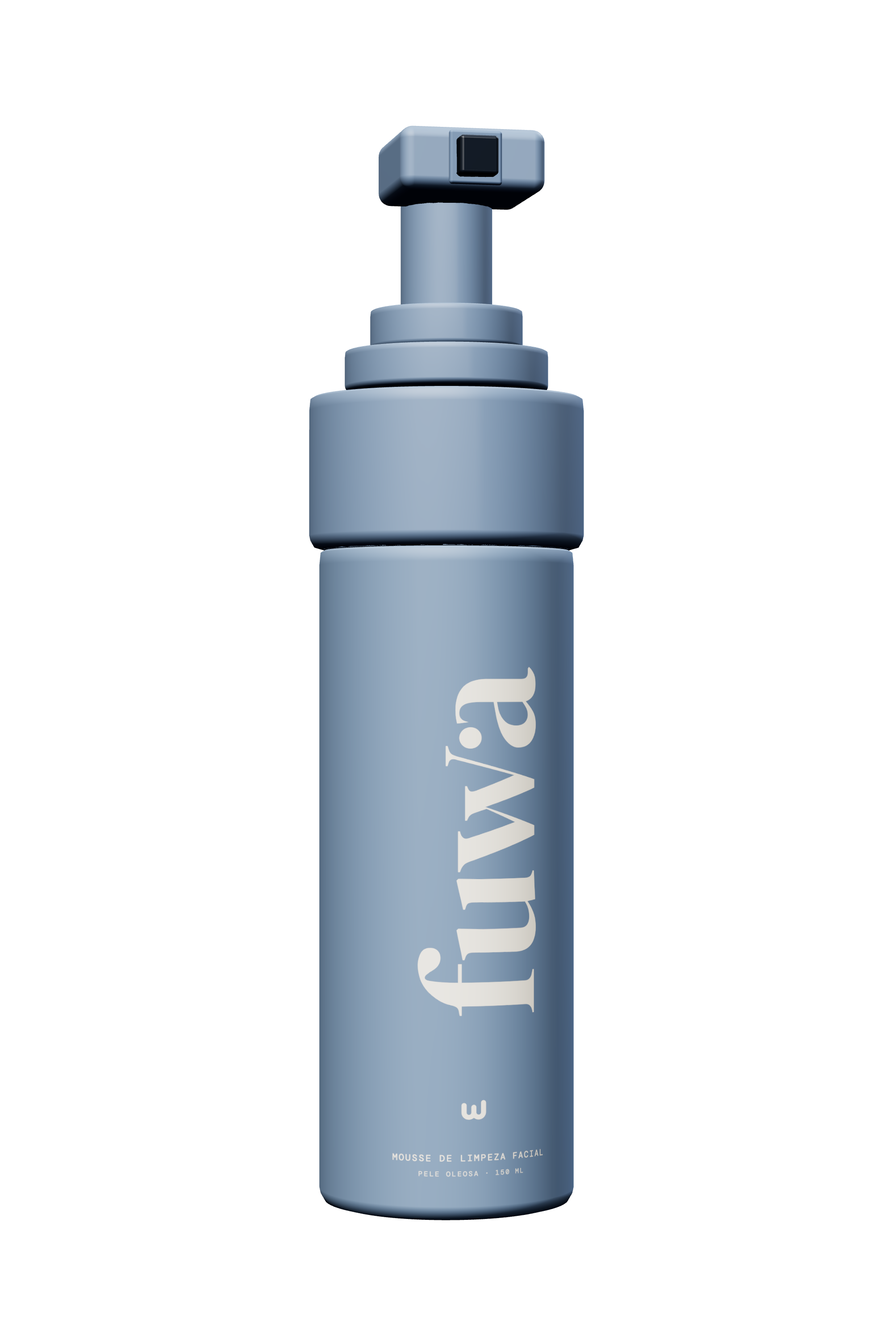
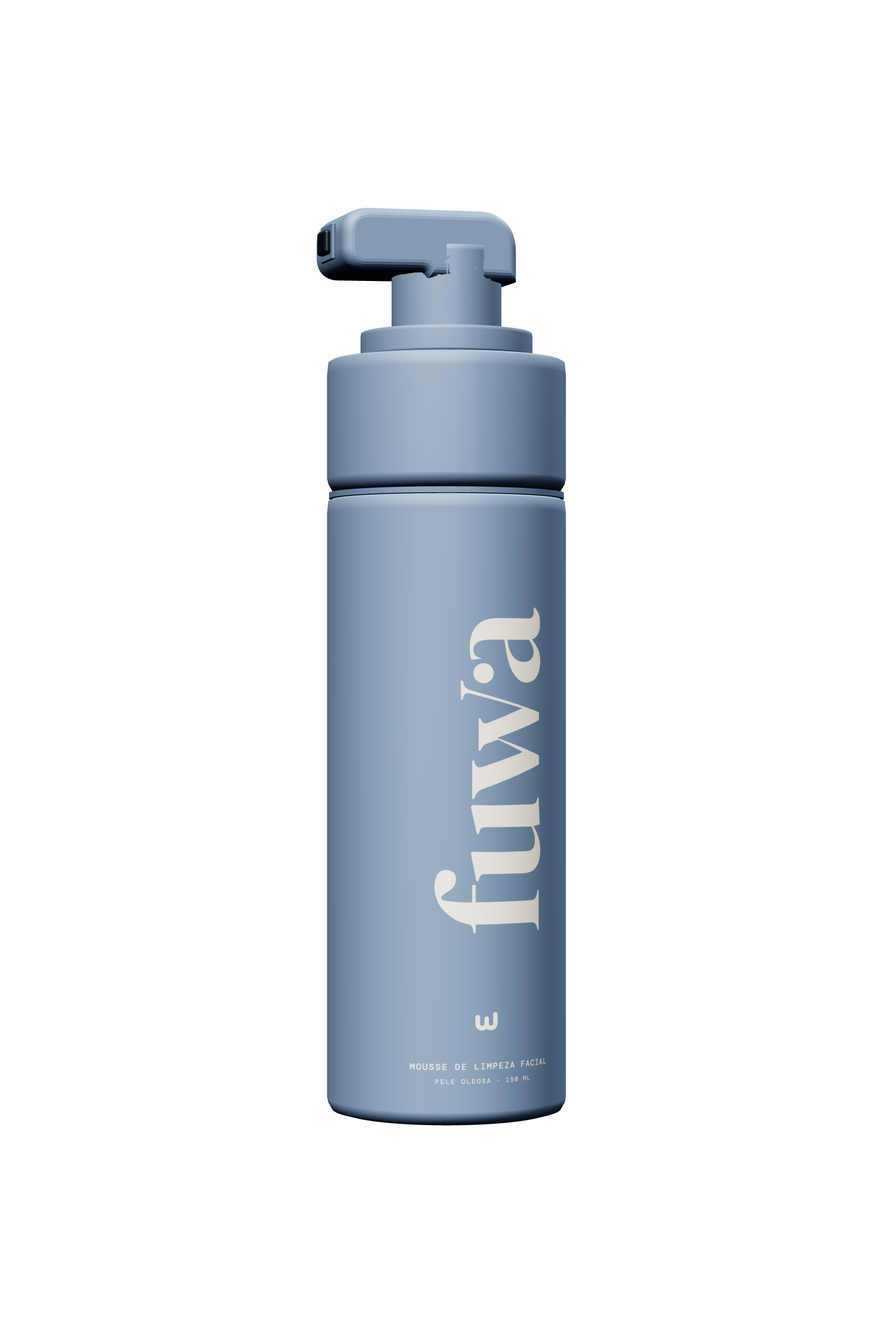
Landing v2.3: revisão de UX com ui-ux-pro-max, design-taste, motion e img2threejs (frasco fiel à foto, ruptura nova, fechamento sem corte, menos rótulos, um nome de CTA)

Changed region(s): [[0.341, 0.093, 0.651, 0.93]]

diff --git a/index.html b/index.html
@@ -24,15 +24,15 @@
     <header class="site-header" id="site-header"><a class="header-mark" href="#abertura" aria-label="Voltar ao início"><img src="assets/logo/FUWA-LOGO-GRAFITE.svg" alt="FUWA"></a><button class="menu-trigger" id="menu-trigger" type="button" aria-expanded="false" aria-controls="site-menu"><img src="assets/logo/FUWA-SIMBOLO-GRAFITE.svg" alt="abrir índice"></button></header>
     <aside class="site-menu" id="site-menu" aria-hidden="true"><div class="menu-head"><span>índice</span><button id="menu-close" type="button" aria-label="Fechar índice">fechar</button></div><nav><a href="#abertura">a abertura <span>01</span></a><a href="#produto">o produto <span>02</span></a><a href="#beneficios">os benefícios <span>03</span></a><a href="#ruptura">a ruptura <span>04</span></a><a href="#comunidade">pertencer <span>05</span></a><a href="#oferta">a oferta <span>06</span></a><a href="#faq">a última objeção <span>07</span></a></nav><p>pele leve, sem drama.</p></aside>
     <main>
-      <section class="intro" id="intro" aria-label="Abertura, filme e símbolo FUWA"><span class="anchor" id="abertura"></span><span class="anchor" id="filme"></span><span class="anchor" id="virada"></span><div class="intro-stage"><div class="film-stage layer"><canvas id="film-canvas" role="img" aria-label="Filme visual de uma mousse de limpeza Fuwa"></canvas><div class="film-veil"></div><div class="film-copy" aria-live="polite"><p class="film-line" data-start="0.00" data-end="0.26" data-a="Mas não é para comer." data-b="Até sentir a FUWA.">Mas não é para comer.</p><p class="film-line" data-start="0.29" data-end="0.64">É para sentir.</p><p class="film-line" data-start="0.68" data-end="0.83">Leveza em cada toque.</p><p class="film-line" data-start="0.86" data-end="1">Limpeza que dá prazer de repetir.</p></div><div class="film-status"><span id="frame-status">carregando o filme</span><span id="frame-counter">f018 / f204</span></div></div><div class="w-stage layer"><canvas id="w-canvas" aria-hidden="true"></canvas><div class="w-caption"><span class="eyebrow">a virada</span><p>Conheça seu novo ritual.</p></div></div><div class="opening-stage layer"><div id="bottle-mount" aria-label="Frasco Fuwa em 3D"></div><img class="intro-film" id="intro-film" src="assets/frames/desktop/f018.jpg" alt="Espuma Fuwa saindo do pump"><div class="opening-copy"><span class="eyebrow">FUWA · MOUSSE DE LIMPEZA FACIAL</span><h1 id="opening-title">Parece chantilly.</h1><p id="opening-support">Mas não é para comer. É para sentir.</p><span class="opening-cue">deslize</span><a class="skip-intro" href="#produto">pular introdução</a></div><div class="fallback-bottle"><img src="assets/3d/bottle-front.png" alt="Frasco FUWA frontal"></div></div></div></section>
-      <section class="product screen section-leite has-w" id="produto"><div class="product-grid"><div class="product-image-wrap"><img src="assets/3d/bottle-front.png" alt="Frasco azul da FUWA mousse de limpeza facial" class="product-bottle"></div><div class="product-copy"><span class="eyebrow">FUWA · MOUSSE DE LIMPEZA FACIAL</span><h2 class="reveal-words">Seu rosto limpo.<br><em>Sua rotina leve.</em></h2><h3>FUWA mousse de limpeza facial.</h3><p>Uma espuma cremosa feita para transformar a limpeza diária em um momento gostoso de cuidar de você.</p></div></div></section>
-      <section class="benefits screen section-azul has-w" id="beneficios"><div class="section-inner"><span class="eyebrow">03 · o que você quer sentir</span><h2 class="reveal-words">Tudo o que você quer sentir.<br><em>Sem complicar.</em></h2><div class="benefit-grid"><article><img src="assets/img2/t03-limpeza.jpg" alt="Espuma, água e sensação de limpeza"><h3>Limpeza</h3><p>Eficiente e suave.</p></article><article><img src="assets/img2/t03-frescor.jpg" alt="Gotas sobre uma superfície azul"><h3>Frescor</h3><p>Uma sensação leve.</p></article><article><img src="assets/img2/t03-conforto.jpg" alt="Pele real recebendo espuma e toque suave"><h3>Conforto</h3><p>Um toque macio.</p></article><article><img src="assets/ugc/ugc-01.jpg" alt="Espuma saindo pronta do bico do frasco"><h3>Praticidade</h3><p>Um aperto. Espuma pronta.</p></article></div><!-- alegações em validação com a fórmula final --></div></section>
-      <section class="rupture" id="ruptura"><div class="rupture-stage"><div class="rupture-image rupture-light"></div><div class="rupture-copy"><span class="eyebrow">04 · a ruptura</span><h2 class="reveal-words">Sua pele não é laboratório.</h2><p class="reveal-words">Cuidar de você não precisa ser uma sequência infinita de tentativas.</p><p class="reveal-words">A gente leva o desenvolvimento a sério. Para você levar a rotina com leveza.</p></div></div></section>
-      <section class="community screen section-areia" id="comunidade"><div class="community-stage"><div class="section-inner"><span class="eyebrow">05 · pertencer</span><h2 class="reveal-words">Tem coisas que a gente precisa sentir para entender.</h2><p class="community-support">Seu primeiro toque pode ser o começo de uma nova rotina.</p><div class="ugc-carousel"><figure><button class="ugc-card" data-video="assets/ugc/ugc-01.mp4"><video src="assets/ugc/ugc-01.mp4" poster="assets/ugc/ugc-01.jpg" muted playsinline loop preload="metadata"></video></button><figcaption>conteúdo da marca · ilustrativo</figcaption></figure><figure><button class="ugc-card" data-video="assets/ugc/ugc-02.mp4"><video src="assets/ugc/ugc-02.mp4" poster="assets/ugc/ugc-02.jpg" muted playsinline loop preload="metadata"></video></button><figcaption>conteúdo da marca · ilustrativo</figcaption></figure><figure><button class="ugc-card" data-video="assets/ugc/ugc-03.mp4"><video src="assets/ugc/ugc-03.mp4" poster="assets/ugc/ugc-03.jpg" muted playsinline loop preload="metadata"></video></button><figcaption>conteúdo da marca · ilustrativo</figcaption></figure></div><p class="hashtag">#MeuMomentoFUWA</p></div></div></section>
+      <section class="intro" id="intro" aria-label="Abertura, filme e símbolo FUWA"><span class="anchor" id="abertura"></span><span class="anchor" id="filme"></span><span class="anchor" id="virada"></span><div class="intro-stage"><div class="film-stage layer"><canvas id="film-canvas" role="img" aria-label="Filme visual de uma mousse de limpeza Fuwa"></canvas><div class="film-veil"></div><div class="film-copy" aria-live="polite"><p class="film-line" data-start="0.00" data-end="0.26" data-a="Mas não é para comer." data-b="Até sentir a FUWA.">Mas não é para comer.</p><p class="film-line" data-start="0.29" data-end="0.64">É para sentir.</p><p class="film-line" data-start="0.68" data-end="0.83">Leveza em cada toque.</p><p class="film-line" data-start="0.86" data-end="1">Limpeza que dá prazer de repetir.</p></div><div class="film-status"><span id="frame-status">carregando o filme</span><span id="frame-counter">f018 / f204</span></div></div><div class="w-stage layer"><canvas id="w-canvas" aria-hidden="true"></canvas><div class="w-caption"><p>Conheça seu novo ritual.</p></div></div><div class="opening-stage layer"><div id="bottle-mount" aria-label="Frasco Fuwa em 3D"></div><img class="intro-film" id="intro-film" src="assets/frames/desktop/f018.jpg" alt="Espuma Fuwa saindo do pump"><div class="opening-copy"><span class="eyebrow">FUWA · MOUSSE DE LIMPEZA FACIAL</span><h1 id="opening-title">Parece chantilly.</h1><p id="opening-support">Mas não é para comer. É para sentir.</p><a class="skip-intro" href="#produto">pular introdução</a></div><div class="fallback-bottle"><img src="assets/3d/bottle-front.png" alt="Frasco FUWA frontal"></div></div></div></section>
+      <section class="product screen section-leite has-w" id="produto"><div class="product-grid"><div class="product-image-wrap"><img src="assets/3d/bottle-front.png" alt="Frasco azul da FUWA mousse de limpeza facial" class="product-bottle"></div><div class="product-copy"><h2>Seu rosto limpo.<br><em>Sua rotina leve.</em></h2><h3>FUWA mousse de limpeza facial.</h3><p>Uma espuma cremosa feita para transformar a limpeza diária em um momento gostoso de cuidar de você.</p></div></div></section>
+      <section class="benefits screen section-azul has-w" id="beneficios"><div class="section-inner"><h2>Tudo o que você quer sentir.<br><em>Sem complicar.</em></h2><div class="benefit-grid"><article><img src="assets/img2/t03-limpeza.jpg" alt="Espuma, água e sensação de limpeza"><h3>Limpeza</h3><p>Eficiente e suave.</p></article><article><img src="assets/img2/t03-frescor.jpg" alt="Gotas sobre uma superfície azul"><h3>Frescor</h3><p>Uma sensação leve.</p></article><article><img src="assets/img2/t03-conforto.jpg" alt="Pele real recebendo espuma e toque suave"><h3>Conforto</h3><p>Um toque macio.</p></article><article><img src="assets/ugc/ugc-01.jpg" alt="Espuma saindo pronta do bico do frasco"><h3>Praticidade</h3><p>Um aperto. Espuma pronta.</p></article></div><!-- alegações em validação com a fórmula final --></div></section>
+      <section class="rupture" id="ruptura"><div class="rupture-copy"><h2 class="reveal-words">Sua pele não é laboratório.</h2><p>Cuidar de você não precisa ser uma sequência infinita de tentativas.</p><p>A gente leva o desenvolvimento a sério. Para você levar a rotina com leveza.</p></div><div class="rupture-window"><img src="assets/img2/t04-leveza.jpg" alt="Espuma branca sobre uma pedra azul porosa com gotas de água" loading="lazy"></div></section>
+      <section class="community screen section-areia" id="comunidade"><div class="community-stage"><div class="section-inner"><h2>Tem coisas que a gente precisa sentir para entender.</h2><p class="community-support">Seu primeiro toque pode ser o começo de uma nova rotina.</p><div class="ugc-carousel"><figure><button class="ugc-card" data-video="assets/ugc/ugc-01.mp4"><video src="assets/ugc/ugc-01.mp4" poster="assets/ugc/ugc-01.jpg" muted playsinline loop preload="metadata"></video></button><figcaption>conteúdo da marca · ilustrativo</figcaption></figure><figure><button class="ugc-card" data-video="assets/ugc/ugc-02.mp4"><video src="assets/ugc/ugc-02.mp4" poster="assets/ugc/ugc-02.jpg" muted playsinline loop preload="metadata"></video></button><figcaption>conteúdo da marca · ilustrativo</figcaption></figure><figure><button class="ugc-card" data-video="assets/ugc/ugc-03.mp4"><video src="assets/ugc/ugc-03.mp4" poster="assets/ugc/ugc-03.jpg" muted playsinline loop preload="metadata"></video></button><figcaption>conteúdo da marca · ilustrativo</figcaption></figure></div><p class="hashtag">#MeuMomentoFUWA</p></div></div></section>
       <section class="offer" id="oferta"><div class="offer-stage"><div class="offer-bg" aria-hidden="true"></div><div class="offer-drop"><img src="assets/3d/bottle-front.png" alt="Frasco azul da FUWA mousse de limpeza facial"><span class="offer-shadow" aria-hidden="true"></span></div><div class="offer-card"><img class="offer-thumb" src="assets/3d/bottle-front.png" alt="" aria-hidden="true"><span class="eyebrow">FUWA · MOUSSE DE LIMPEZA FACIAL · 150 ML</span><h2>Um pequeno prazer.<br><em>Todos os dias.</em></h2><p>Uma limpeza facial que combina praticidade e experiência sensorial.</p><p class="price-note">Preço de lançamento · em estudo</p><div class="price-block"><strong class="price-split">3x de R$ 26,33</strong><span class="price-full">ou R$ 79,00 à vista</span><span class="price-unit">R$ 0,53 por ml · 150 ml</span></div><p class="shipping">Frete grátis · em estudo</p><ul><li>Textura mousse aerada</li><li>Frasco com válvula espumadora</li><li>150 ml para sua rotina de cuidado</li></ul><button class="button primary waitlist-open" type="button">QUERO SENTIR A FUWA</button><div class="offer-details"><details><summary>Modo de uso</summary><p>Aplique a espuma no rosto úmido, massageie suavemente e enxágue.</p></details><details><summary>Ingredientes</summary><p>em definição com o laboratório</p></details><details><summary>Informações técnicas</summary><p>150 ml · frasco com válvula espumadora</p></details></div></div></div></section>
-      <section class="coming" id="em-breve"><div class="coming-half coming-serum"><div class="coming-media"><img src="assets/img2/embreve-serum.jpg" alt="Frasco de sérum facial FUWA cor argila"><img class="coming-logo coming-logo-serum" src="assets/logo/FUWA-LOGO-BRANCO-AREIA.svg" alt="" aria-hidden="true"><img class="coming-logo coming-logo-serum dup" src="assets/logo/FUWA-LOGO-BRANCO-AREIA.svg" alt="" aria-hidden="true"></div><div class="coming-copy"><span class="eyebrow">em breve · 01</span><h2 class="reveal-words">sérum facial.</h2><p>Leve como deve ser. Para completar a rotina sem pesar.</p><span class="coming-badge">Disponível em breve</span><button class="text-link waitlist-open" type="button">me avise</button></div></div><div class="coming-half coming-creme"><div class="coming-media"><img src="assets/img2/embreve-creme.jpg" alt="Pote de creme FUWA cor sálvia"><img class="coming-logo coming-logo-creme" src="assets/logo/FUWA-LOGO-BRANCO-AREIA.svg" alt="" aria-hidden="true"></div><div class="coming-copy"><span class="eyebrow">em breve · 02</span><h2 class="reveal-words">creme rosto e corpo.</h2><p>A mesma textura de chantilly. Agora para a pele toda.</p><span class="coming-badge">Disponível em breve</span><button class="text-link waitlist-open" type="button">me avise</button></div></div></section>
-      <section class="faq screen section-areia has-w" id="faq"><div class="section-inner faq-grid"><div><span class="eyebrow">07 · a última objeção</span><h2 class="reveal-words">Simples até na hora de escolher.</h2></div><div class="faq-list"><details><summary>Para quem é a FUWA?</summary><p>A proposta inicial é uma limpeza facial especialmente pensada para necessidades de pele mista ou oleosa. A indicação final depende da formulação e avaliação técnica.</p></details><details><summary>É um tratamento para acne?</summary><p>Não. A FUWA é um cosmético de limpeza facial. Para acne, procure um dermatologista.</p></details><details><summary>É hidratante?</summary><p>Não é um hidratante. É uma limpeza que não deixa a pele repuxando.</p></details></div></div></section>
-      <section class="closing" aria-label="Fechamento"><picture><source media="(orientation: portrait)" srcset="assets/img2/chantilly-mao-v.jpg"><img src="assets/img2/chantilly-mao.jpg" alt="Mão segurando uma espuma cremosa FUWA"></picture><div class="closing-copy"><h2>Pronta para sentir a diferença?</h2><p>Seu próximo ritual começa com um toque.</p><button class="button primary waitlist-open" type="button">QUERO MINHA FUWA</button></div></section>
+      <section class="coming" id="em-breve"><div class="coming-half coming-serum"><div class="coming-media"><img src="assets/img2/embreve-serum.jpg" alt="Frasco de sérum facial FUWA cor argila"><img class="coming-logo coming-logo-serum" src="assets/logo/FUWA-LOGO-BRANCO-AREIA.svg" alt="" aria-hidden="true"><img class="coming-logo coming-logo-serum dup" src="assets/logo/FUWA-LOGO-BRANCO-AREIA.svg" alt="" aria-hidden="true"></div><div class="coming-copy"><h2>sérum facial.</h2><p>Leve como deve ser. Para completar a rotina sem pesar.</p><span class="coming-badge">Disponível em breve</span><button class="text-link waitlist-open" type="button">me avise</button></div></div><div class="coming-half coming-creme"><div class="coming-media"><img src="assets/img2/embreve-creme.jpg" alt="Pote de creme FUWA cor sálvia"><img class="coming-logo coming-logo-creme" src="assets/logo/FUWA-LOGO-BRANCO-AREIA.svg" alt="" aria-hidden="true"></div><div class="coming-copy"><h2>creme rosto e corpo.</h2><p>A mesma textura de chantilly. Agora para a pele toda.</p><span class="coming-badge">Disponível em breve</span><button class="text-link waitlist-open" type="button">me avise</button></div></div></section>
+      <section class="faq screen section-areia has-w" id="faq"><div class="section-inner faq-grid"><div><h2>Simples até na hora de escolher.</h2></div><div class="faq-list"><details><summary>Para quem é a FUWA?</summary><p>A proposta inicial é uma limpeza facial especialmente pensada para necessidades de pele mista ou oleosa. A indicação final depende da formulação e avaliação técnica.</p></details><details><summary>É um tratamento para acne?</summary><p>Não. A FUWA é um cosmético de limpeza facial. Para acne, procure um dermatologista.</p></details><details><summary>É hidratante?</summary><p>Não é um hidratante. É uma limpeza que não deixa a pele repuxando.</p></details></div></div></section>
+      <section class="closing" aria-label="Fechamento"><div class="closing-copy"><h2 class="reveal-words">Pronta para sentir a diferença?</h2><p>Seu próximo ritual começa com um toque.</p><button class="button primary waitlist-open" type="button">QUERO SENTIR A FUWA</button></div><figure class="closing-frame"><picture><source media="(orientation: portrait)" srcset="assets/img2/chantilly-mao-v.jpg"><img src="assets/img2/chantilly-mao.jpg" alt="Mão segurando uma porção de espuma cremosa, como chantilly" loading="lazy" width="1280" height="720"></picture></figure></section>
     </main>
     <footer class="site-footer"><img src="assets/logo/FUWA-SELO-AZUL-2CORES.svg" alt="selo FUWA"><span>© 2026 FUWA · imagens e vídeos gerados por IA, conceito ilustrativo</span><p class="footer-guide"><a href="regras.html">guia de UI/UX do site</a></p></footer>
     <div class="fixed-cta" id="fixed-cta"><img class="fixed-thumb" src="assets/3d/bottle-front.png" alt="" aria-hidden="true"><span class="fixed-price">3x R$ 26,33 <small>ou R$ 79 · em estudo</small></span><button class="button primary waitlist-open" type="button">QUERO SENTIR A FUWA</button></div>

diff --git a/js/bottle3d.js b/js/bottle3d.js
@@ -64,50 +64,56 @@ function makeBottle(labelTexture) {
   body.name = 'body-128mm-with-label';
   root.add(body);
 
-  const collar = new THREE.Mesh(smoothLathe(27, 30, 2.8, 96), blue);
+  // proporções medidas na foto de referência (app-01): colar rente ao corpo, um anel fino no ombro,
+  // haste grossa (Ø23) que vira um bico longo para a frente, com orifício quadrado na ponta
+  const collar = new THREE.Mesh(smoothLathe(25, 28, 3.2, 128), blue);
   collar.position.y = 79;
-  collar.name = 'overcap-collar-30mm';
+  collar.name = 'overcap-collar-flush';
   root.add(collar);
 
-  const gap = new THREE.Mesh(new THREE.CylinderGeometry(24.3, 24.3, 1.8, 64), blueDark);
-  gap.position.y = 64.9;
+  const gap = new THREE.Mesh(new THREE.CylinderGeometry(24.6, 24.6, 1.2, 96), blueDark);
+  gap.position.y = 64.6;
   root.add(gap);
 
-  const shoulderA = new THREE.Mesh(smoothLathe(20, 8, 1.8, 64), blue);
-  shoulderA.position.y = 99;
-  shoulderA.name = 'pump-shoulder-lower';
-  root.add(shoulderA);
-  const shoulderB = new THREE.Mesh(smoothLathe(15, 8, 1.6, 64), blue);
-  shoulderB.position.y = 107;
-  shoulderB.name = 'pump-shoulder-upper';
-  root.add(shoulderB);
+  const shoulder = new THREE.Mesh(smoothLathe(18, 5.5, 1.3, 96), blue);
+  shoulder.position.y = 95.9;
+  shoulder.name = 'pump-shoulder-ring';
+  root.add(shoulder);
 
-  const stem = new THREE.Mesh(smoothLathe(9, 30, 1.8, 64), blue);
-  stem.position.y = 123;
+  const stem = new THREE.Mesh(smoothLathe(11.5, 18, 1.2, 96), blue);
+  stem.position.y = 107;
   stem.name = 'pump-stem';
   root.add(stem);
 
-  const head = new THREE.Mesh(new RoundedBoxGeometry(28, 12, 26, 6, 2.4), blue);
-  head.position.set(0, 137, 13);
-  head.name = 'pump-head-and-forward-nozzle';
+  // cabeça do pump: perfil lateral medido na foto (bico curto e encorpado, passa ~10 mm da haste)
+  const prof = new THREE.Shape();
+  prof.moveTo(-10, 111);
+  prof.lineTo(-10, 115);
+  prof.quadraticCurveTo(-10, 121, -4, 121);
+  prof.lineTo(20, 120.6);
+  prof.quadraticCurveTo(23.5, 120.5, 23.5, 117.4);
+  prof.lineTo(23.5, 114.4);
+  prof.quadraticCurveTo(23.5, 112, 21, 112.1);
+  prof.lineTo(9, 112.4);
+  prof.quadraticCurveTo(7, 112.4, 6, 111);
+  prof.lineTo(-10, 111);
+  const headGeo = new THREE.ExtrudeGeometry(prof, { depth: 17, bevelEnabled: true, bevelThickness: 2.4, bevelSize: 2.2, bevelSegments: 6, curveSegments: 24 });
+  headGeo.translate(0, 0, -8.5);
+  headGeo.rotateY(Math.PI); // bico aponta para -X: a 90° do rótulo, como no frasco real
+  const head = new THREE.Mesh(headGeo, blue);
+  head.name = 'pump-head-and-nozzle';
   root.add(head);
 
-  // The dark, recessed square is deliberately a real little tunnel rather than a decal.
-  const tunnel = new THREE.Mesh(new RoundedBoxGeometry(7.4, 7.4, 5.6, 4, 0.7), dark);
-  tunnel.position.set(0, 137, 27.4);
+  const tunnel = new THREE.Mesh(new RoundedBoxGeometry(5, 5, 6, 4, 0.7), dark);
+  tunnel.position.set(-25, 116.4, 0);
   tunnel.name = 'recessed-square-aperture';
   root.add(tunnel);
-  const apertureRim = new THREE.Mesh(new RoundedBoxGeometry(10.2, 10.2, 1.2, 4, 1.1), blueDark);
-  apertureRim.position.set(0, 137, 26.4);
+  const apertureRim = new THREE.Mesh(new RoundedBoxGeometry(0.8, 7.6, 8.4, 4, 1.1), blueDark);
+  apertureRim.position.set(-25.9, 116.4, 0);
   apertureRim.name = 'aperture-rim';
   root.add(apertureRim);
 
-  // A small inner back wall keeps the opening dark as the camera approaches it.
-  const apertureBack = new THREE.Mesh(new RoundedBoxGeometry(5.8, 5.8, 0.6, 3, 0.45), dark);
-  apertureBack.position.set(0, 137, 24.9);
-  root.add(apertureBack);
-
-  return { root, aperture: { x: 3.7, y: 3.7, z: 28.5, centerY: 137 } };
+  return { root, aperture: { x: 3, y: 2.6, z: 25.4, centerY: 107.5 } };
 }
 
 function loadLabel(url) {
@@ -149,14 +155,14 @@ export function createBottle({ container, onClip = () => {} }) {
 
   const state = { progress: 0, mouseX: 0, mouseY: 0, visible: true, disposed: false, frame: 0, lastRender: -1 };
   const startCamera = new THREE.Vector3(0, 40, 620);
-  const closeCamera = new THREE.Vector3(0, 137, 110);
-  const insideCamera = new THREE.Vector3(0, 137, 44);
+  const closeCamera = new THREE.Vector3(0, 116.4, 100);
+  const insideCamera = new THREE.Vector3(0, 116.4, 39);
   const lookStart = new THREE.Vector3(0, 40, 0);
-  const lookAperture = new THREE.Vector3(0, 137, 28);
+  const lookAperture = new THREE.Vector3(0, 116.4, 26);
   const projected = [new THREE.Vector3(), new THREE.Vector3(), new THREE.Vector3(), new THREE.Vector3()];
   const apertureCorners = [
-    new THREE.Vector3(-3.5, 133.5, 28.7), new THREE.Vector3(3.5, 133.5, 28.7),
-    new THREE.Vector3(3.5, 140.5, 28.7), new THREE.Vector3(-3.5, 140.5, 28.7),
+    new THREE.Vector3(-26.4, 113.8, -2.6), new THREE.Vector3(-26.4, 113.8, 2.6),
+    new THREE.Vector3(-26.4, 119, 2.6), new THREE.Vector3(-26.4, 119, -2.6),
   ];
   let lastSize = { width: 0, height: 0 };
 
@@ -174,6 +180,7 @@ export function createBottle({ container, onClip = () => {} }) {
 
   function updateCamera(p) {
     const portrait = camera.aspect < 1;
+    if (state.snapCam) { camera.position.set(0, 28, 660); camera.lookAt(0, 28, 0); return; }
     startCamera.set(0, portrait ? 10 : 40, portrait ? 1500 : 620);
     lookStart.set(0, portrait ? -95 : 40, 0);
     const approach = smoothstep((p - 0.1) / 0.5);
@@ -209,7 +216,7 @@ export function createBottle({ container, onClip = () => {} }) {
     const idle = reducedMotion ? 0 : Math.sin(performance.now() * 0.0014) * 0.7;
     bottle.root.rotation.set(
       THREE.MathUtils.degToRad(state.mouseY * 3 + idle * 0.35),
-      THREE.MathUtils.degToRad(-28 + 28 * smoothstep((p - 0.1) / 0.45) + state.mouseX * 3),
+      THREE.MathUtils.degToRad(state.snapRot != null ? state.snapRot : (-14 + 104 * smoothstep((p - 0.1) / 0.45) + state.mouseX * 3)),
       0,
     );
     bottle.root.position.y = p < 0.6 ? Math.sin(performance.now() * 0.0014) * 0.8 : 0;
@@ -253,8 +260,8 @@ export function createBottle({ container, onClip = () => {} }) {
     camera.updateProjectionMatrix();
     state.progress = 0;
     state.visible = true;
-    state.mouseX = (15 + Number(options.rotationY || 0)) / 3;
-    state.mouseY = Number(options.rotationX || 0) / 3;
+    state.snapRot = Number(options.rotationY || 0) - 6; state.snapCam = true;
+    state.mouseX = 0; state.mouseY = Number(options.rotationX || 0) / 3;
     render(true);
     if (options.top) {
       camera.position.set(0, 270, 5);
@@ -265,7 +272,7 @@ export function createBottle({ container, onClip = () => {} }) {
     state.progress = previous.progress;
     state.visible = previous.visible;
     state.mouseX = 0;
-    state.mouseY = 0;
+    state.mouseY = 0; state.snapRot = null; state.snapCam = false;
     camera.position.copy(oldCameraPosition);
     camera.quaternion.copy(oldCameraQuaternion);
     bottle.root.rotation.copy(oldBottleRotation);

diff --git a/js/main.js b/js/main.js
@@ -125,6 +125,13 @@ import { createBottle } from './bottle3d.js';
       .to(img, { y: -14, ease: 'power1.out', duration: .09 }).to(img, { y: 0, ease: 'power1.in', duration: .09 })
       .fromTo(shadow, { opacity: 0, scale: .3, xPercent: -50 }, { opacity: 1, scale: 1, xPercent: -50, ease: 'power2.in', duration: .82 }, 0);
   }
+  // ruptura: a janela com a pedra se abre até a tela cheia enquanto a seção entra (guiado pelo scroll, roda também em 'reduzir movimento')
+  function setupRuptureWindow() {
+    const win = document.querySelector('.rupture-window'); if (!win) return;
+    const mobile = window.matchMedia('(max-width: 800px)').matches; const side = mobile ? 8 : 14;
+    gsap.fromTo(win, { clipPath: `inset(0% ${side}% 0% ${side}% round 28px)` }, { clipPath: 'inset(0% 0% 0% 0% round 0px)', ease: 'none', scrollTrigger: { trigger: win, start: 'top 85%', end: 'top 15%', scrub: .5 } });
+    gsap.fromTo(win.querySelector('img'), { scale: 1.12 }, { scale: 1, ease: 'none', scrollTrigger: { trigger: win, start: 'top bottom', end: 'bottom top', scrub: .5 } });
+  }
   let bottleApi = null;
   // o trecho do rosto (f144 em diante, ~68% dos quadros) recebe mais rolagem: fica mais lento
   function filmEase(p) { const k = 0.5, f = 0.677; return p < k ? (p / k) * f : f + ((p - k) / (1 - k)) * (1 - f); }
@@ -175,7 +182,7 @@ import { createBottle } from './bottle3d.js';
     } });
     ScrollTrigger.create({ trigger: '#produto', start: 'top 70%', endTrigger: '.closing', end: 'bottom bottom', onEnter: () => document.querySelector('#fixed-cta').classList.add('is-visible'), onLeave: () => document.querySelector('#fixed-cta').classList.remove('is-visible'), onEnterBack: () => document.querySelector('#fixed-cta').classList.add('is-visible'), onLeaveBack: () => document.querySelector('#fixed-cta').classList.remove('is-visible') }); }
 
-  resizeCanvas(filmCanvas, filmCtx); resizeCanvas(wCanvas, wCtx); loadFrame(1); loadFrame(activeCount); loadPriorityFrames(); setupMenu(); setupModal(); setupLightbox(); setupBottle(); setupMotion(); setupReveal(prefersReduced.matches); setupCommunityScroll(); setupOfferDrop(prefersReduced.matches); ScrollTrigger.create({ trigger: '#oferta', start: 'top 60%', end: 'bottom 40%', toggleClass: { targets: document.body, className: 'in-offer' } }); runPreloader();
+  resizeCanvas(filmCanvas, filmCtx); resizeCanvas(wCanvas, wCtx); loadFrame(1); loadFrame(activeCount); loadPriorityFrames(); document.body.classList.add("on-dark"); setupMenu(); setupModal(); setupLightbox(); setupBottle(); setupMotion(); setupReveal(prefersReduced.matches); setupCommunityScroll(); setupOfferDrop(prefersReduced.matches); setupRuptureWindow(); ScrollTrigger.create({ trigger: '.closing', start: 'top 70px', end: 'bottom 70px', toggleClass: { targets: document.body, className: 'on-dark-end' } }); ScrollTrigger.create({ trigger: '#oferta', start: 'top 60%', end: 'bottom 40%', toggleClass: { targets: document.body, className: 'in-offer' } }); runPreloader();
   window.addEventListener('resize', () => { resizeCanvas(filmCanvas, filmCtx); resizeCanvas(wCanvas, wCtx); queueDraw(); drawW(); ScrollTrigger.refresh(); }); isPortrait.addEventListener?.('change', resetFrameSource); document.fonts?.ready.then(() => ScrollTrigger.refresh());
   gsap.to('#progress-bar', { scaleX: 1, ease: 'none', scrollTrigger: { trigger: document.body, start: 'top top', end: 'bottom bottom', scrub: true } }); setTimeout(() => { queueDraw(); drawW(); }, 300);
 })();

diff --git a/css/style.css b/css/style.css
@@ -235,3 +235,35 @@ a:focus-visible,button:focus-visible,summary:focus-visible,input:focus-visible{o
 }
 .rupture-light{background-image:linear-gradient(180deg,var(--leite) 0%,var(--leite) 46%,rgba(245,242,237,.75) 56%,rgba(245,242,237,0) 70%),url('../assets/img2/t04-leveza.jpg');background-size:auto 58%;background-repeat:no-repeat;background-position:72% 100%;background-color:var(--leite)}
 @media (max-width:800px){.rupture-light{background-size:auto 50%;background-position:66% 100%}}
+
+/* ===== v2.3 (revisão de UX com as skills) ===== */
+/* ruptura: texto acima, a pedra numa janela que se abre com a rolagem */
+.rupture{height:auto;min-height:0;background:var(--leite);padding:clamp(96px,14vh,150px) 0 0;display:block}
+.rupture-stage,.rupture-light,.rupture-lab{display:none}
+.rupture .rupture-copy{position:relative;left:auto;top:auto;transform:none;margin:0 auto;width:min(860px,calc(100% - 40px));text-align:center;padding:0}
+.rupture .rupture-copy h2{color:var(--grafite);font-size:clamp(44px,7vw,104px);line-height:1.02}
+.rupture .rupture-copy p{color:#3C3E44;font-weight:400;margin:16px auto 0;max-width:600px;font-size:clamp(18px,1.8vw,22px);opacity:1!important;transform:none!important}
+.rupture-window{margin-top:clamp(40px,7vh,72px);height:min(88vh,860px);overflow:hidden;clip-path:inset(0 14% 0 14% round 28px);will-change:clip-path}
+.rupture-window img{width:100%;height:100%;object-fit:cover;object-position:62% 55%;transform:scale(1.12);will-change:transform}
+
+/* fechamento: título em cima, foto inteira (16:9) num quadro, sem cortar a mão e sem esticar */
+.closing{position:relative;height:auto;min-height:0;display:block;overflow:visible;background:#33404F;color:var(--branco);padding:clamp(96px,12vh,140px) clamp(20px,6vw,92px) clamp(72px,10vh,120px)}
+.closing:after{display:none}
+.closing .closing-copy{position:relative;left:auto;bottom:auto;max-width:900px;margin:0 auto;text-align:center;padding:0}
+.closing .closing-copy h2{color:var(--branco);font-size:clamp(42px,6vw,88px);line-height:1.02}
+.closing .closing-copy p{color:#C9CED6;margin:14px 0 26px;font-size:clamp(18px,1.8vw,22px)}
+.closing-frame{margin:clamp(40px,6vh,64px) auto 0;width:min(1120px,100%);aspect-ratio:16/9;border-radius:20px;overflow:hidden}
+.closing-frame picture,.closing-frame img{position:static;display:block;width:100%;height:100%;object-fit:cover;grid-column:auto}
+@media (min-width:801px){.closing{display:block;grid-template-columns:none}.closing picture{position:static;height:100%}}
+
+/* áreas de toque e respiro da barra fixa */
+.text-link,.footer-guide a,.back-top,.skip-intro{display:inline-flex;align-items:center;min-height:44px}
+@media (max-width:800px){
+  .rupture{padding-top:88px}
+  .rupture-window{height:62vh;clip-path:inset(0 8% 0 8% round 22px)}
+  .closing{padding:84px 20px 120px}
+  .closing-frame{aspect-ratio:9/16;max-height:70vh;width:auto;max-width:100%}
+  .site-footer{padding-bottom:110px}
+}
+.closing .closing-frame picture,.closing .closing-frame picture img{position:static;inset:auto;display:block;width:100%;height:100%;object-fit:cover;grid-column:auto}
+body.on-dark-end .header-mark img{filter:brightness(0) invert(.93) sepia(.15)}
